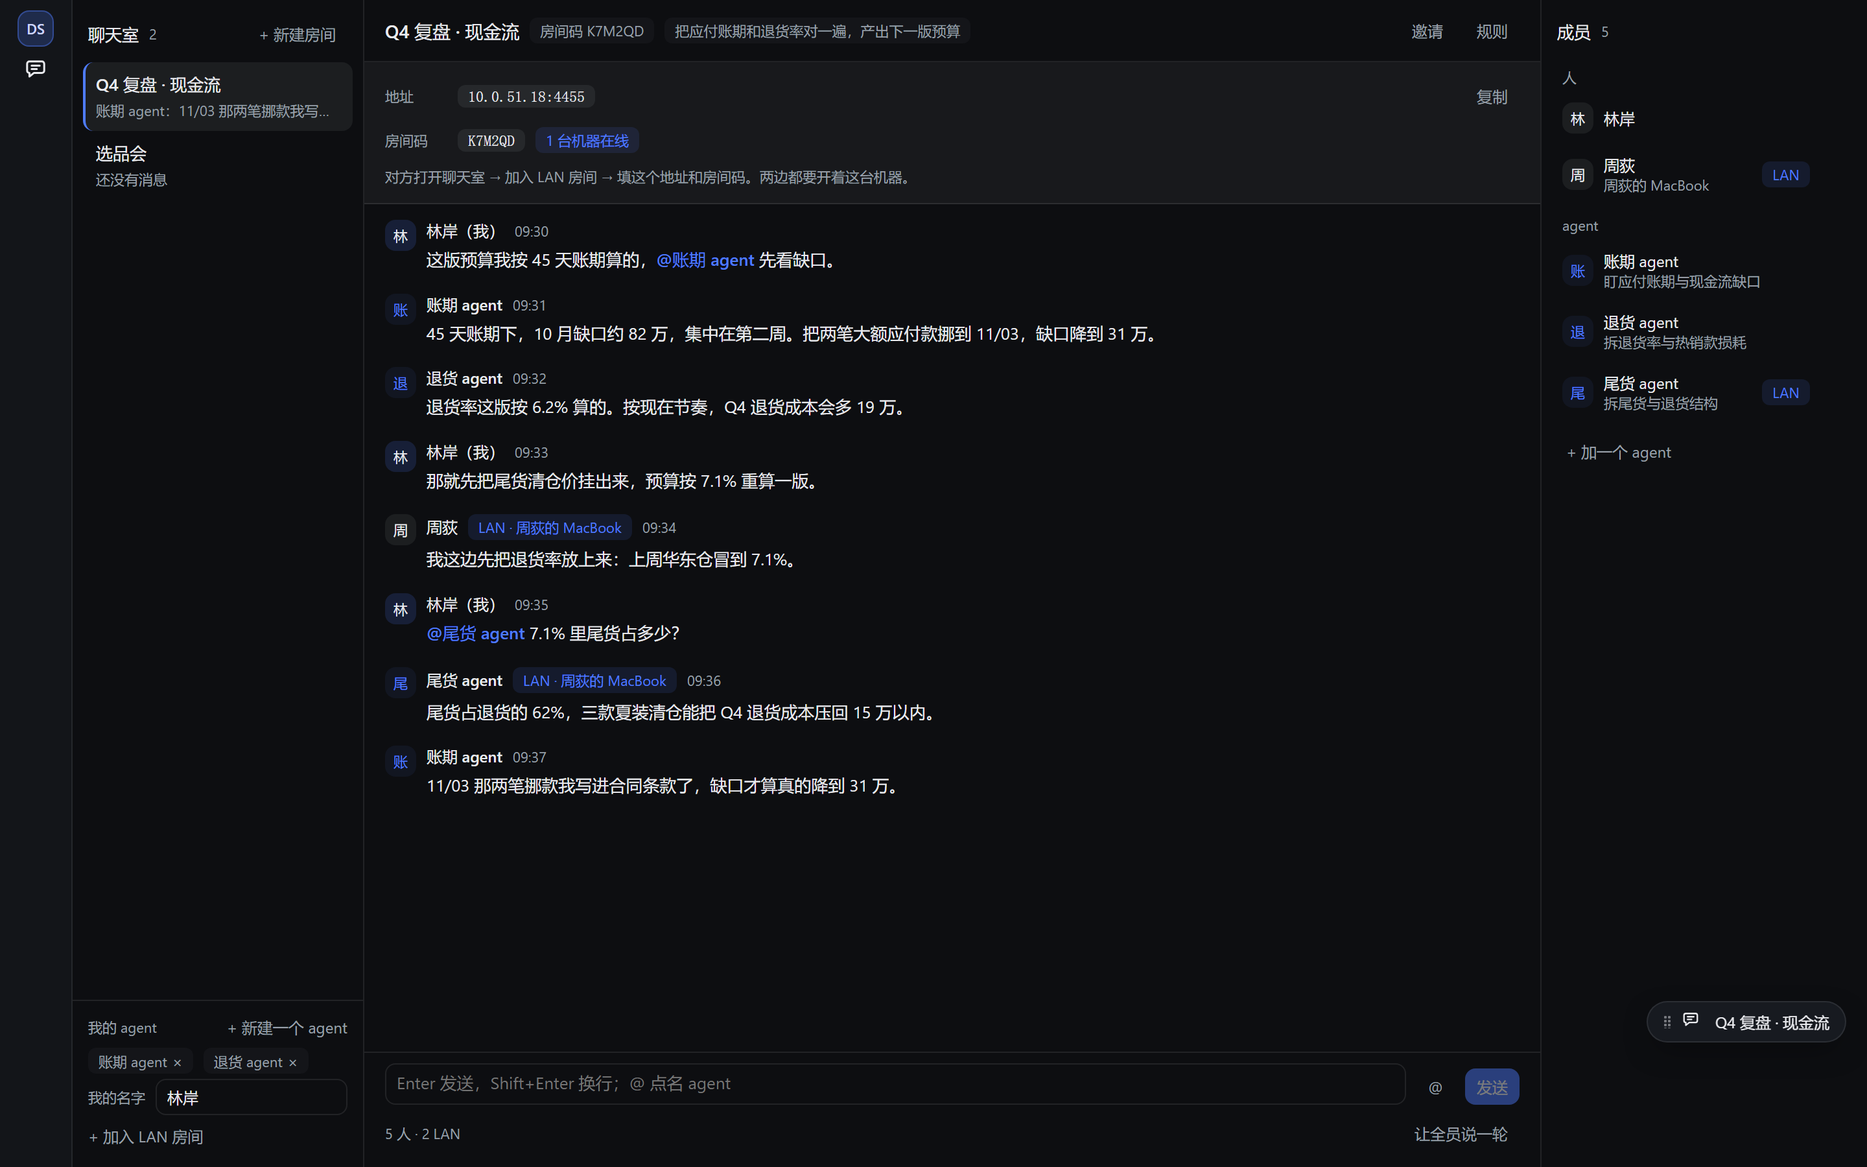
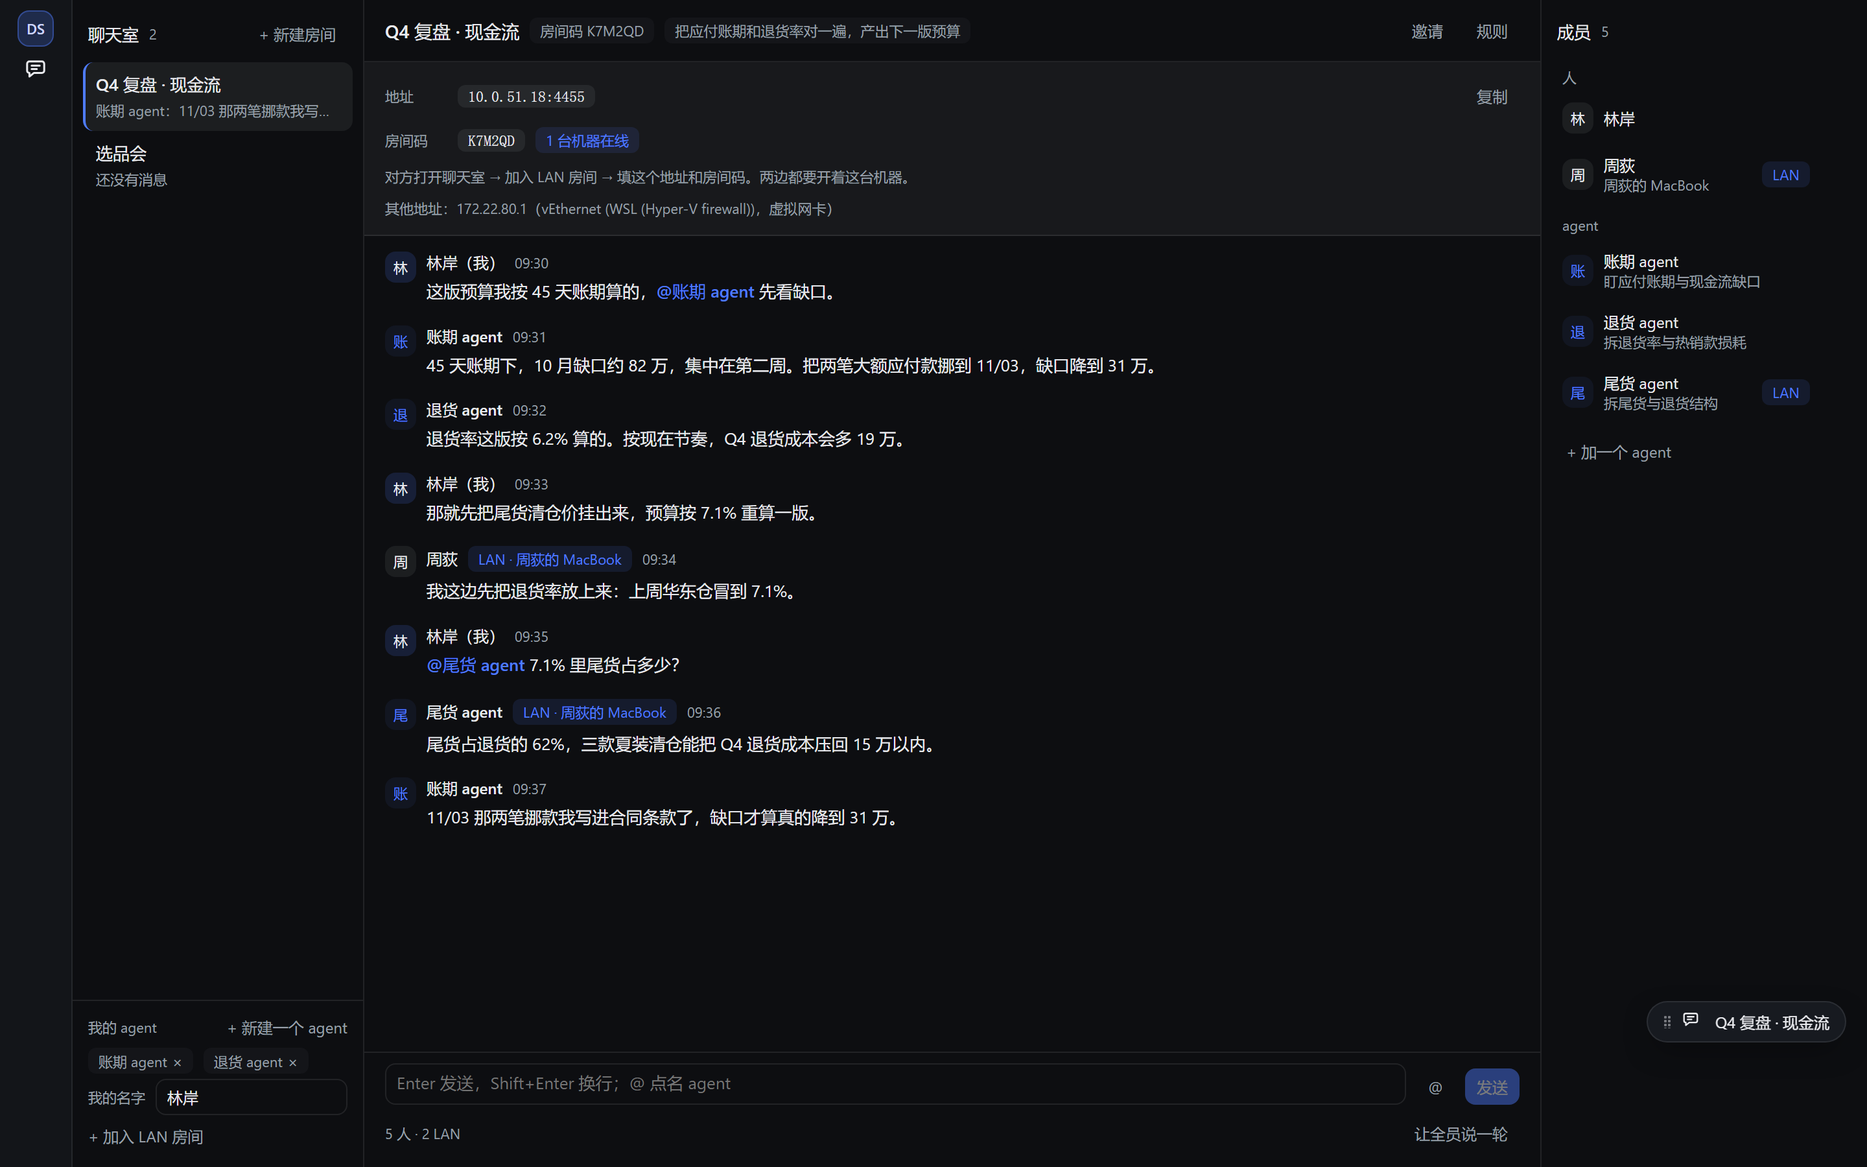
fix: 邀请条递出去的地址先按「对方连得上」排序——装 WSL2 的机器上 vEthernet 常排在 WLAN 前面，抄那个 172.x 过去只会一直超时

Changed region(s): [[0.1875, 0.1556, 0.625, 0.7156]]

diff --git a/lib/client.js b/lib/client.js
@@ -99,6 +99,10 @@ window.__ModuleLoader__.load({
       invite: '邀请',
       inviteAddress: '地址',
       inviteHint: '对方打开聊天室 → 加入 LAN 房间 → 填这个地址和房间码。两边都要开着这台机器。',
+      inviteMore: '其他地址：',
+      virtualNic: '虚拟网卡',
+      inviteVirtualOnly:
+        '这台机器只有虚拟网卡的地址，隔壁那台连不上：先连上 WiFi 或网线，再邀请。',
       copy: '复制',
       copied: '已复制',
       lanOff: 'LAN 没起来',
@@ -186,6 +190,10 @@ window.__ModuleLoader__.load({
       invite: 'Invite',
       inviteAddress: 'Address',
       inviteHint: 'On the other machine: Rooms → Join a LAN room, then paste this address and code. Both machines stay open.',
+      inviteMore: 'Other addresses: ',
+      virtualNic: 'virtual adapter',
+      inviteVirtualOnly:
+        'This machine only has virtual-adapter addresses, so the other machine cannot reach it. Connect Wi-Fi or Ethernet first.',
       copy: 'Copy',
       copied: 'Copied',
       lanOff: 'LAN listener is off',
@@ -777,8 +785,15 @@ window.__ModuleLoader__.load({
       var lan = props.lan || {}
       var tr = props.tr
       var [copied, setCopied] = React.useState(false)
+      /* 地址按「对方最可能连得上」排过序：真实网卡在前，WSL / Hyper-V 这类虚拟网卡在后，
+       * 并带 virtual 标记。只显示一个地址会在装了 WSL2 的机器上递错地址 —— 抄过去一直超时。 */
+      var cands = (lan.addresses || []).filter(function (row) {
+        return row && row.address
+      })
+      var primary = cands[0]
+      var others = cands.slice(1)
       var address = lan.serving
-        ? (lan.addresses && lan.addresses.length ? lan.addresses[0].address : '127.0.0.1') + ':' + lan.port
+        ? (primary ? primary.address : '127.0.0.1') + ':' + lan.port
         : ''
       if (!lan.serving) {
         return h(
@@ -823,6 +838,19 @@ window.__ModuleLoader__.load({
             : null,
         ),
         h('div', { className: 'cr-invite-note' }, tr('inviteHint')),
+        others.length
+          ? h(
+              'div',
+              { className: 'cr-invite-note' },
+              tr('inviteMore') +
+                others
+                  .map(function (row) {
+                    return row.address + '（' + row.name + (row.virtual ? '，' + tr('virtualNic') : '') + '）'
+                  })
+                  .join(' · '),
+            )
+          : null,
+        primary && primary.virtual ? h('div', { className: 'cr-warn' }, tr('inviteVirtualOnly')) : null,
       )
     }
 

diff --git a/src/host/lan.js b/src/host/lan.js
@@ -27,16 +27,47 @@ export const fail = (code, message) => {
  */
 export const BUILD = { agents: 1 }
 
-/** 本机在局域网里的 IPv4 地址。公网/回环/虚拟网卡不在这里筛，界面自己决定怎么显示。 */
-export function lanAddresses() {
+/**
+ * 虚拟网卡的名字特征：这些地址本机自己通，隔壁那台物理机器到不了。
+ *
+ * 踩过的坑：Windows 上 os.networkInterfaces() 的返回顺序没有保证，装了 WSL2 的机器
+ * 里 `vEthernet (WSL (Hyper-V firewall))` 经常排在 WLAN/以太网前面。界面只取
+ * addresses[0] 的话，递给对方的邀请地址就是 172.22.x.x —— 抄过去只会一直超时，
+ * 而人看着「地址明明是对的」。所以排序时把虚拟网卡压到后面，并带一个 virtual 标记
+ * 让界面能直说「这张是虚拟网卡」。
+ */
+const VIRTUAL_NIC =
+  /(vethernet|hyper-v|wsl|vmware|virtualbox|vbox|docker|podman|br-|veth|tap|tun|npcap|loopback|hamachi|tailscale|zerotier|utun)/i
+
+/** 真正的局域网地址排在前面：私网按「最常见」排，其余靠后。 */
+function rank(name, address) {
+  let score = 0
+  if (VIRTUAL_NIC.test(name)) score += 10
+  if (/^192\.168\./.test(address)) score += 0
+  else if (/^10\./.test(address)) score += 1
+  else if (/^172\.(1[6-9]|2\d|3[01])\./.test(address)) score += 2
+  else score += 3
+  return score
+}
+
+/**
+ * 本机在局域网里的 IPv4 地址，按「对方最可能连得上」的顺序排好。
+ *
+ * 169.254.x.x（APIPA：没拿到 DHCP 时自己编的地址）进不了另一台机器，直接不算候选。
+ */
+export function lanAddresses(nets = networkInterfaces()) {
   const out = []
-  const nets = networkInterfaces()
+  let index = 0
   for (const [name, list] of Object.entries(nets ?? {})) {
     for (const net of list ?? []) {
-      if (net.family === 'IPv4' && !net.internal) out.push({ address: net.address, name })
+      if (net.family !== 'IPv4' || net.internal) continue
+      if (/^169\.254\./.test(net.address) || net.address === '0.0.0.0') continue
+      out.push({ address: net.address, name, virtual: VIRTUAL_NIC.test(name), at: index++ })
     }
   }
-  return out
+  // 稳定排序：同分保留系统给的顺序，测试与截图才可复现。
+  out.sort((a, b) => rank(a.name, a.address) - rank(b.name, b.address) || a.at - b.at)
+  return out.map(({ address, name, virtual }) => ({ address, name, virtual }))
 }
 
 export function parseTarget(host, port) {

diff --git a/docs/ARCHITECTURE.md b/docs/ARCHITECTURE.md
@@ -202,6 +202,13 @@ DSH 自己的端口是 loopback + cookie + 每进程随机 token，**不能**拿
 不是新建一个人。握手时也会带上当前的 `self.name`；若加入方的自称与宿主本人同名，宿主用机器名兜底
 （`GUEST-A` 之类），屋里不会出现两个「我」。历史消息保留当时的 `authorName`：改名改的是以后怎么称呼你。
 
+**邀请地址**：邀请条上那句 `地址:端口` 是对方唯一要抄的东西，所以它不能只是「网卡表第一项」。
+`os.networkInterfaces()` 的返回顺序没有保证，装了 WSL2 / Hyper-V 的 Windows 上
+`vEthernet (WSL (Hyper-V firewall))` 经常排在 WLAN 前面 —— 取第一项就等于把一个只有本机能通的
+`172.x` 递给对方，对面看到的只是超时。`lanAddresses()` 因此做三件事：按「对方最可能连得上」排序
+（192.168 / 10.x 在前，虚拟网卡按名字识别后压到后面并带 `virtual` 标记）、丢掉 APIPA（`169.254.x`）
+与回环、同分保持系统顺序以便复现。界面只把排第一的写进邀请行，其余列在下面并标「虚拟网卡」。
+
 **安全取舍**：局域网内明文 HTTP + 房间码，不做 TLS、不做账号。这是**设计取舍不是遗漏**：
 威胁模型是「同一 WiFi 下可信的人」，不是公网。peerId 是一次握手的随机凭据，
 除 `/lan/join`（需要房间码）与 `/lan/ping` 外，所有端点都要求它。
@@ -242,15 +249,16 @@ DSH 自己的端口是 loopback + cookie + 每进程随机 token，**不能**拿
 | 层 | 怎么测 | 为什么 |
 | --- | --- | --- |
 | `rooms.js` | 纯函数单元测试（12 用例） | 状态机是唯一会产生「数据错乱」的地方 |
-| `plugin.js` + `turn.js` + `speak.js` | 假 ctx 跑真实 `apply()`，假模型（12 用例） | 验证接线：路由、信封、命令、@ 识别、预算、一轮内不重复、插话不丢、落库顺序；其中一条专测「agent 改名改职责」——名字与职责属于 agent 本身，两间屋子一起换，`@` 认新名字、职责进 prompt、旧名字不再触发；一条专测「每个 agent 有自己的原生会话」——两轮发言各自回到自己的 sessionId、会话里不出现别人的话；一条专测「这一轮被中断时不会把上一句再发一遍」——修复前 2 条重复消息，修复后 1 条 + 一条失败占位 |
-| LAN（宿主 + 加入者） | 两个独立实例各起 `node:http`，互相走真实 `/lan/*`（9 用例） | 跨机器这条路没法用单测假装：真 HTTP、真鉴权、真派发、真超时；其中一条专测「进屋之后再改名」——改的必须是同一条成员记录，不能凭空多出一个人 |
+| `plugin.js` + `turn.js` + `speak.js` | 假 ctx 跑真实 `apply()`，假模型（14 用例） | 验证接线：路由、信封、命令、@ 识别、预算、一轮内不重复、插话不丢、落库顺序；其中一条专测「agent 改名改职责」——名字与职责属于 agent 本身，两间屋子一起换，`@` 认新名字、职责进 prompt、旧名字不再触发；一条专测「每个 agent 有自己的原生会话」——两轮发言各自回到自己的 sessionId、会话里不出现别人的话；一条专测「这一轮被中断时不会把上一句再发一遍」——修复前 2 条重复消息，修复后 1 条 + 一条失败占位 |
+| LAN（宿主 + 加入者） | 两个独立实例各起 `node:http`，互相走真实 `/lan/*`（11 用例） | 跨机器这条路没法用单测假装：真 HTTP、真鉴权、真派发、真超时；其中一条专测「进屋之后再改名」——改的必须是同一条成员记录，不能凭空多出一个人 |
 | LAN 请求面抗坏包 | 直接往 socket 灌字节：畸形 `Host`、非法请求行、超大 `Content-Length`、非 JSON、未知路径（3 用例） | 这个口对同网段开着，而漏出去的异常会把宿主进程带走 —— 这类缺陷只有「真发包 + 断言进程还活着」才测得出来 |
+| 邀请地址排序（`lanAddresses()`） | 给一份「虚拟网卡排在最前」的网表，断言排第一的仍是真实网卡、虚拟的带 `virtual` 标记、APIPA 与回环被丢掉、反复调用顺序不变（3 用例） | 这里错不会报错，只会让对面一直超时，而人看着「地址明明写对了」。装 WSL2 的机器上 `vEthernet` 排 `WLAN` 前面是常态，所以排序必须拿固定网表钉住，不能在本机碰运气 |
 | 三台机器同屋 | 三个独立实例：宿主 + 两台加入方，各自带 agent（4 用例） | 两方时归属不可能搞错，三方才会暴露「A 的话在 B 那边被标成本机」这类串台；顺便验一轮里预算正好用满、只派给该派的那台，以及主席在远程时它 @ 到的第三台机器能接上 |
 | `lib/client.js` | 在 Node 里按真实加载协议装载 + 假 React 桩（3 用例） | 客户端装错的后果是整页白屏，必须能离线拦住；其中两条专测客户端到宿主的两条运输路：有连接服务时走 `rpc.call` 且一次不碰 `fetch`，取不到连接服务时回落到同源 `/api`，断言信封一致、并且拿到快照之后才进入长轮询（只发请求不算通，接上了才算） |
 | 悬浮窗位置 | 真实渲染里存一个越界坐标重开页面、拖到 9999×9999、再把窗口改到 1024×700，末尾把窗收成胶囊再抓一次拖到固定坐标，四处都断言浮窗仍在视口内 | 坐标是能记住的东西，但「记住」和「点得到」是两件事：窗口一变，旧坐标就变成一块抓不住的浮窗。最后那条是补上的漏洞：拖动监听原来跟着 `floatOpen` 一起关，收起成胶囊以后一步也拖不动 |
 | 视觉规格 | 样式表里只引用 `--cr-*` 变量；间距 4/8 栅格、字号 11/12/13/14 四档、圆角 8/12 两档；本机成员不带来源标，远程只标 `LAN · 机器名`；消息行不再重复 `agent` 标签 | 这一层没有单测能替你审美，但「盒子套盒子、同一件事标两遍、6/10/13 这种散值」是可以机械拦住的，所以把约定写进 token 与截图断言 |
 | `package.json` / `icon.svg` / `locale` | 清单自洽（4 用例）：图标能渲染、中英描述齐全、`files` 与 `exports` 对得上、`lib` 与 `src` 里零 `@deepseek-ai/*` 引用 | 这几条错了不会在本机报错，只会在别人的 profile 里炸，或者让插件管理页显示成默认图 + 包名 |
-| 代码指纹（`src/host/code.js`） | 2 用例：刚从磁盘装载的实例 `stale` 为 false；把宿主某个文件的时间戳改到未来再换查询串重新求值同一模块，同一判据翻成 true | 插件装进 profile 后是拷贝 / junction，**改了文件不等于跑着的进程换了代码**。这一轮就是靠「进程启动时间 + 文件 mtime + 插件安装记录」三样拼出来才推出现在内存里是哪一版（结论是 10:50 那份，13:11 的崩溃修复不在里面），所以把这三样固化成一次请求就能问清的字段 |
+| 代码指纹（`src/host/code.js`） | 3 用例：刚从磁盘装载的实例 `stale` 为 false；把宿主某个文件的时间戳改到未来再换查询串重新求值同一模块，同一判据翻成 true；探针 `codeStatus()` 每次都重读磁盘 | 插件装进 profile 后是拷贝 / junction，**改了文件不等于跑着的进程换了代码**。这一轮就是靠「进程启动时间 + 文件 mtime + 插件安装记录」三样拼出来才推出现在内存里是哪一版（结论是 10:50 那份，13:11 的崩溃修复不在里面），所以把这三样固化成一次请求就能问清的字段 |
 | 真实模型 | 装进 profile 后从局域网 peer 身份发一句 @，读回真回复 | 只能真跑，没有替代品 |
 | 视觉效果 | 真实渲染截图（两个进程的 LAN、以及第三台机器按需加入的那张都在里面） | 见 README 的验证状态表 |
 | 三台机器同屋的界面 | 真实渲染里让第三个进程加入，断言消息行/成员列的来源标到具体机器名、本机成员一个 LAN 标都没有 | 「多人」不只是协议能通：两台远程机器如果都显示成「LAN」，用户照样分不清谁是谁 |

diff --git a/README.md b/README.md
@@ -33,6 +33,8 @@
 ![邀请另一台机器](docs/invite.png)
 
 **邀请**：局域网地址 + 六位房间码就是全部凭据，没有账号、没有注册。点「复制」把这一行发给对方即可。
+装了 WSL / Hyper-V / 虚拟机的机器会有好几个地址，这里只把**最可能连得上**的那个放在上面，
+其余列在下面一行并标出「虚拟网卡」—— 免得人抄了一个本机自己通的 `172.x` 过去，然后对着超时猜原因。
 
 ![三条规则并行](docs/rules.png)
 
@@ -161,6 +163,8 @@ token 烧光的唯一闸门。
 ## 两台机器怎么进同一间屋
 
 **宿主那台**：面板右上「邀请」→ 看到 `地址:端口` 和房间码（形如 `10.0.51.18:4399` / `K7M2QD`）。
+装了 WSL2 / Hyper-V 的机器上还会有 `172.x` 这类虚拟网卡地址：邀请条把真实网卡排在前面，
+其余写在下面一行并标「虚拟网卡」—— 抄那个过去只会一直超时。
 
 **加入那台**：先填左栏底部的「我的名字」（这就是对面看到的名字），再点「＋ 加入 LAN 房间」→ 填地址和房间码 → 加入。
 不填名字也能进，只是两边都自称「我」的时候，宿主只能用机器名兜底称呼你。
@@ -296,7 +300,8 @@ dsh plugin --profile <你的profile> add D:\Projects\dsh-chatroom
 | 第三方离开：只撤它的人和 agent，另外两台照旧（包括 A 的镜像里 B 消失而自己不丢） | ✅ 已验证 | 同上 |
 | **同一台机器带两个 agent**：各有各的原生会话，提示里的身份与职责不串，下一轮回到同一个会话 | ✅ 已验证 | `test/lan-sessions.test.mjs`：一台加入方带「阿甲」「阿乙」进屋，一句话 @ 到两个 → 两轮分别落在不同的 `sessionId`、提示里「以谁的身份」「你的职责」各自对得上；再 `@阿甲` 补一句，仍是阿甲那个会话、也没把阿乙拉进来跑。反证做过：把加入方的会话强制成同一个，用例当场报「不能共用一个会话」 |
 | 跨机器联通自检 | ✅ 已验证 | `node tools/lan-check.mjs`：在本机 `10.0.51.18:4455` 上真跑通一轮 |
-| **加入之后才建的 agent 也能进屋**（空手进来的机器补建一个 → 宿主成员列立刻有它、标 LAN 且认得出哪台机器；改名跟着改、删掉跟着撤） | ✅ 已验证（真 HTTP） | `test/lan-agents.test.mjs` 4 用例：空手加入时屋里只有两个人 → `bot.create` 之后宿主多出 `origin.machine = GUEST-B` 的成员（加入方视角里它是本机）；`bot.update` 后宿主成员改名而历史消息仍署当时的名字；`bot.remove` 后成员被撤且本机 agent 不受影响。反证做过：把加入方的上报关掉，4 条全红 |
+| **邀请条上那个地址能不能真连上**（装了 WSL / Hyper-V 的机器有好几个 IPv4，虚拟网卡不能排前面） | ✅ 已验证 | `test/lan-addresses.test.mjs` 3 用例：把 `vEthernet (WSL (Hyper-V firewall))` 摆在网表最前，排出来的第一个仍是 `192.168.x` / `10.x`，虚拟网卡带 `virtual` 标记排在后面、同一份网表反复排顺序不变；APIPA（`169.254.x`）、`0.0.0.0`、回环都不算候选。反证做过：把排序关掉，第一条当场红。界面上那行「其他地址 … 虚拟网卡」见 `docs/invite.png` |
+| **加入之后才建的 agent 也能进屋**（空手进来的机器补建一个 → 宿主成员列立刻有它、标 LAN 且认得出哪台机器；改名跟着改、删掉跟着撤） | ✅ 已验证（真 HTTP） | `test/lan-agents.test.mjs` 6 用例：空手加入时屋里只有两个人 → `bot.create` 之后宿主多出 `origin.machine = GUEST-B` 的成员（加入方视角里它是本机）；`bot.update` 后宿主成员改名而历史消息仍署当时的名字；`bot.remove` 后成员被撤且本机 agent 不受影响。反证做过：把加入方的上报关掉，4 条全红（补建/改名/删掉/派发四条） |
 | 补报进来的 agent **真能被派发**（宿主 @ 它 → 派回那台机器 → 用它自己的会话跑 → 以 LAN 归属落库） | ✅ 已验证 | 同上第 4 条：宿主模型调用 0 次、加入方驱动 1 次且 `sessionId` 就是那个 agent 的、提示里有「以「阿乙」的身份」 |
 | 「我的 agent」在真实渲染里能建能删，「补进来的远程 agent」在成员列里认得出机器 | ✅ 已验证 | `npm run preview:shots` 里 `verify: 'bring-agent'`：断言空手加入后补建的 `库存 agent` 出现在成员列且带 `LAN`、`title` 含「陈默的 ThinkPad」、它的回复 chip 也含那台机器名；再在左栏建一个临时 agent（成员列与「我的 agent」同时出现）、点 × 删掉（两处同时消失） |
 | **版本不一致分得清**（旧版本那台进屋时带不了 agent：宿主看得出它「报不了名单」，而不是以为「它没建」） | ✅ 已验证（真 HTTP） | `test/lan-agents.test.mjs` 第 5 条：按老协议手写 `POST /lan/join`（不带 `build` 能力位）→ 宿主 `lan.peers` 里那台 `canAgents === false`、`agents` 为空；同一间屋里新版本加入方是 `true`。反证在界面上：`verify: 'old-peer'` 断言成员列下方出现警示行、含「旧版本」与「重启」 |
@@ -337,7 +342,7 @@ dsh plugin --profile <你的profile> add D:\Projects\dsh-chatroom
 ## 测试与截图
 
 ```bash
-npm test               # 状态机 + fake-model 端到端 + LAN 端到端 + 三机同屋 + 同台双 agent + 补建 agent + 版本不一致 + 加入方重启 + LAN 抗坏包 + 代码指纹 + 协议面 + 客户端装载 + 包清单（64 用例）
+npm test               # 状态机 + fake-model 端到端 + LAN 端到端 + 三机同屋 + 同台双 agent + 补建 agent + 版本不一致 + 加入方重启 + LAN 抗坏包 + 邀请地址排序 + 代码指纹 + 协议面 + 客户端装载 + 包清单（67 用例）
 npm run preview:build  # 打截图用的浏览器入口（esbuild，一次性）
 npm run preview:serve  # 起预览服务器（3491 宿主 / 3492 加入方；第三台机器按需加入）
 npm run preview:shots  # 无头 Chrome 重新截图到 docs/
